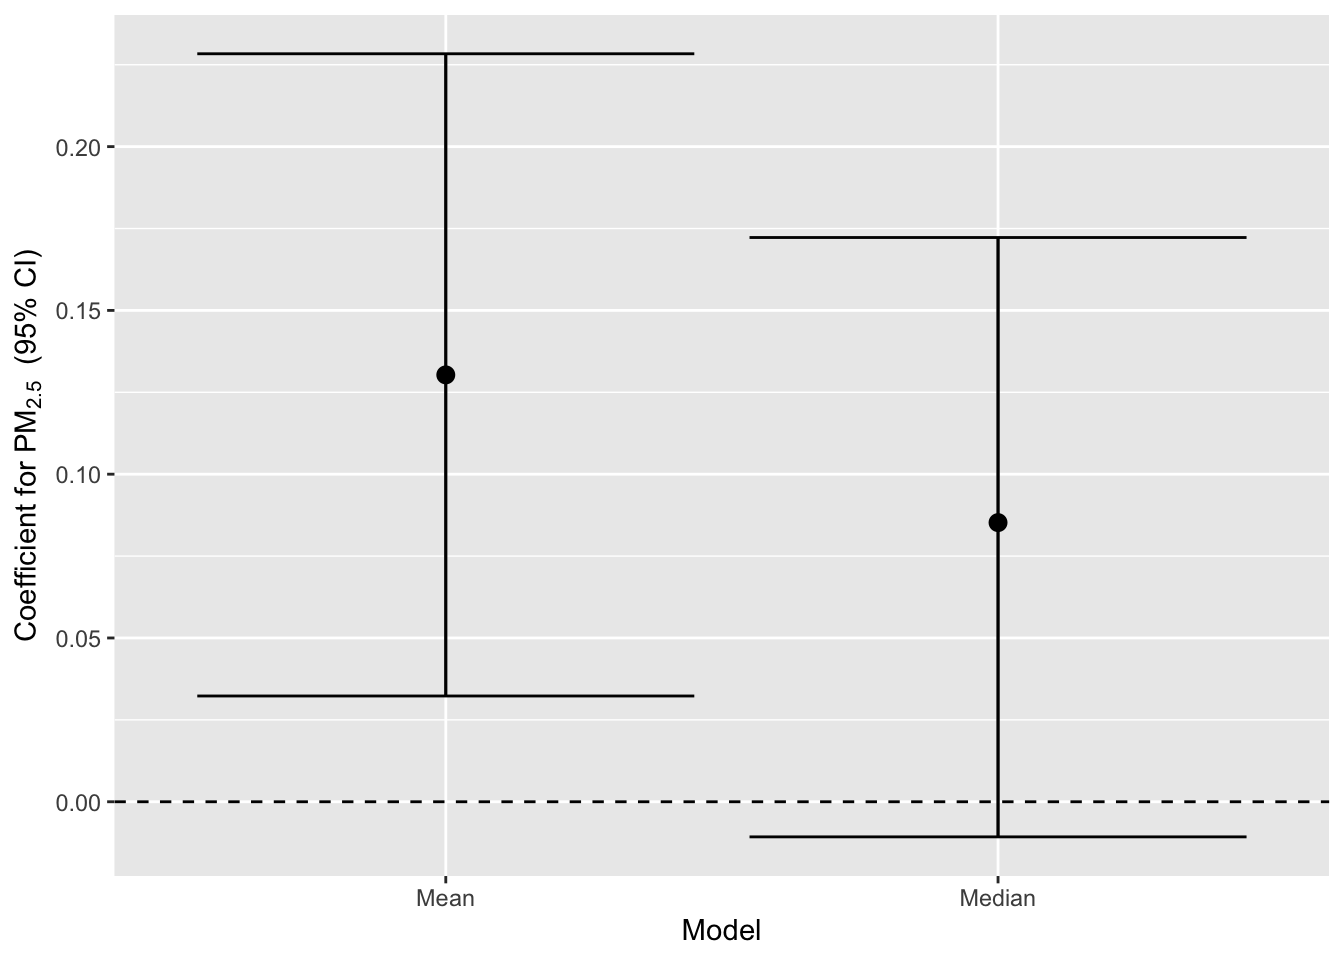
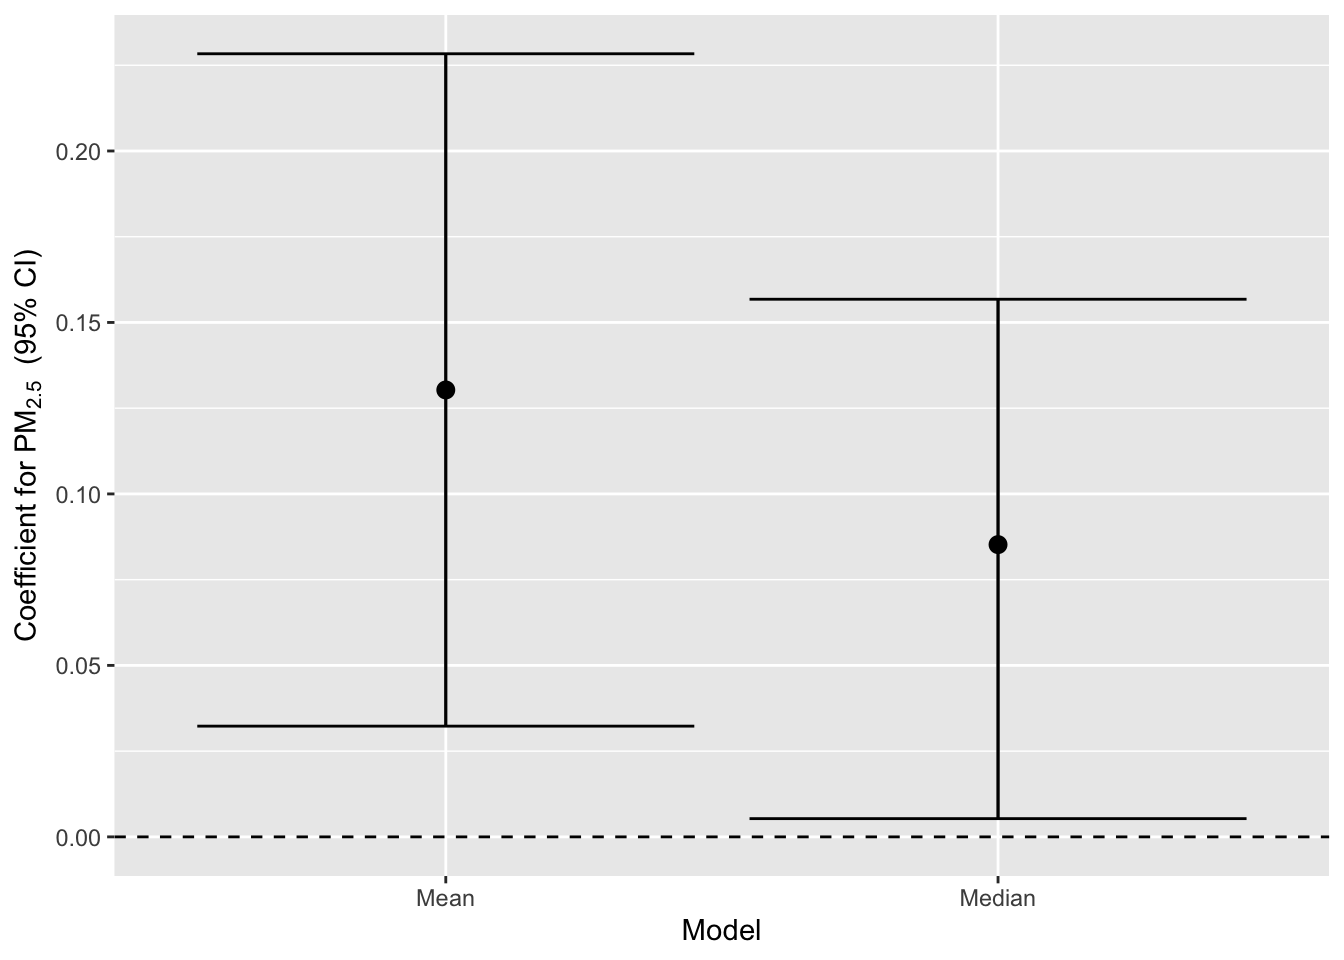
updated lab

diff --git a/labs/day 1/day 1 lab 2.html b/labs/day 1/day 1 lab 2.html
@@ -165,8 +165,8 @@ dbl (12): AveBMI, AvePM, NumTot, MedHVal, MedHInc, PerAsianAm, PerBlack, Per...
 </div>
 </div>
 </section>
-<section id="define-research-question" class="level3">
-<h3 class="anchored" data-anchor-id="define-research-question">2: Define Research Question</h3>
+<section id="define-research-uestion" class="level3">
+<h3 class="anchored" data-anchor-id="define-research-uestion">2: Define research uestion</h3>
 <p>Does the distribution of county-average BMI vary by annual PM2.5?</p>
 </section>
 <section id="calculate-and-compare-quantiles" class="level3">
@@ -235,7 +235,7 @@ dbl (12): AveBMI, AvePM, NumTot, MedHVal, MedHInc, PerAsianAm, PerBlack, Per...
 <div class="cell-output cell-output-stderr">
 <pre><code>Warning in rq.fit.br(x, y, tau = tau, ...): Solution may be nonunique</code></pre>
 </div>
-<div class="sourceCode cell-code" id="cb23"><pre class="sourceCode r code-with-copy"><code class="sourceCode r"><span id="cb23-1"><a href="#cb23-1" aria-hidden="true" tabindex="-1"></a><span class="fu">summary</span>(Mod50th, <span class="at">alpha =</span> <span class="fl">0.05</span>)</span></code><button title="Copy to Clipboard" class="code-copy-button"><i class="bi"></i></button></pre></div>
+<div class="sourceCode cell-code" id="cb23"><pre class="sourceCode r code-with-copy"><code class="sourceCode r"><span id="cb23-1"><a href="#cb23-1" aria-hidden="true" tabindex="-1"></a><span class="fu">summary</span>(Mod50th)</span></code><button title="Copy to Clipboard" class="code-copy-button"><i class="bi"></i></button></pre></div>
 <div class="cell-output cell-output-stderr">
 <pre><code>Warning in rq.fit.br(x, y, tau = tau, ci = TRUE, ...): Solution may be
 nonunique</code></pre>
@@ -250,26 +250,26 @@ tau: [1] 0.5
 
 Coefficients:
                            coefficients   lower bd       upper bd      
-(Intercept)                  2.670053e+01   2.553185e+01   2.823893e+01
-AvePM                        8.522000e-02  -1.072000e-02   1.722500e-01
-PerBlack                     9.367100e-01  -5.118400e-01   2.963200e+00
-PerLatinx                    1.073300e-01  -8.558800e-01   2.561830e+00
-PerAsianAm                  -6.012490e+00  -1.250895e+01  -4.623600e-01
+(Intercept)                  2.670053e+01   2.557008e+01   2.790359e+01
+AvePM                        8.522000e-02   5.320000e-03   1.567700e-01
+PerBlack                     9.367100e-01  -2.838200e-01   2.466040e+00
+PerLatinx                    1.073300e-01  -1.824500e-01   2.020720e+00
+PerAsianAm                  -6.012490e+00  -1.187508e+01  -6.967200e-01
 MedHInc                      0.000000e+00  -1.000000e-05   2.000000e-05
 MedHVal                      0.000000e+00  -1.000000e-05   0.000000e+00
-LTHS                         1.339000e-02  -8.840000e-03   3.028000e-02
-FemaleUnemp                 -6.000000e-05  -1.186900e-01   8.646000e-02
-MaleUnemp                    1.030100e-01   2.387000e-02   1.429200e-01
-ClimateRegionnorthwest      -1.905800e-01  -8.662300e-01   7.489300e-01
-ClimateRegionohio_valley    -3.701800e-01  -7.961200e-01   8.687000e-02
-ClimateRegionrockies        -1.491900e-01  -8.165300e-01   8.082900e-01
-ClimateRegionsouth          -1.577000e-02  -6.193700e-01   5.577200e-01
-ClimateRegionsoutheast      -4.258800e-01  -8.208000e-01   1.363000e-02
-ClimateRegionsouthwest      -8.658800e-01 -1.797693e+308  1.797693e+308
-ClimateRegionupper_midwest  -1.814400e-01  -7.073600e-01   2.982100e-01
+LTHS                         1.339000e-02  -2.290000e-03   2.846000e-02
+FemaleUnemp                 -6.000000e-05  -1.117100e-01   7.472000e-02
+MaleUnemp                    1.030100e-01   2.511000e-02   1.224100e-01
+ClimateRegionnorthwest      -1.905800e-01  -5.934400e-01   6.225800e-01
+ClimateRegionohio_valley    -3.701800e-01  -7.778200e-01   4.709000e-02
+ClimateRegionrockies        -1.491900e-01  -5.133700e-01   3.995200e-01
+ClimateRegionsouth          -1.577000e-02  -5.424400e-01   4.477900e-01
+ClimateRegionsoutheast      -4.258800e-01  -8.029400e-01  -1.478000e-02
+ClimateRegionsouthwest      -8.658800e-01  -1.543090e+00  -4.616900e-01
+ClimateRegionupper_midwest  -1.814400e-01  -6.901200e-01   1.942100e-01
 ClimateRegionwest           -1.461600e-01 -1.797693e+308  1.797693e+308</code></pre>
 </div>
-<div class="sourceCode cell-code" id="cb26"><pre class="sourceCode r code-with-copy"><code class="sourceCode r"><span id="cb26-1"><a href="#cb26-1" aria-hidden="true" tabindex="-1"></a>Coeff.Mod50th <span class="ot">&lt;-</span> <span class="fu">summary</span>(Mod50th, <span class="at">alpha =</span> <span class="fl">0.05</span>)<span class="sc">$</span>coefficients</span></code><button title="Copy to Clipboard" class="code-copy-button"><i class="bi"></i></button></pre></div>
+<div class="sourceCode cell-code" id="cb26"><pre class="sourceCode r code-with-copy"><code class="sourceCode r"><span id="cb26-1"><a href="#cb26-1" aria-hidden="true" tabindex="-1"></a>Coeff.Mod50th <span class="ot">&lt;-</span> <span class="fu">summary</span>(Mod50th)<span class="sc">$</span>coefficients</span></code><button title="Copy to Clipboard" class="code-copy-button"><i class="bi"></i></button></pre></div>
 <div class="cell-output cell-output-stderr">
 <pre><code>Warning in rq.fit.br(x, y, tau = tau, ci = TRUE, ...): Solution may be
 nonunique</code></pre>
